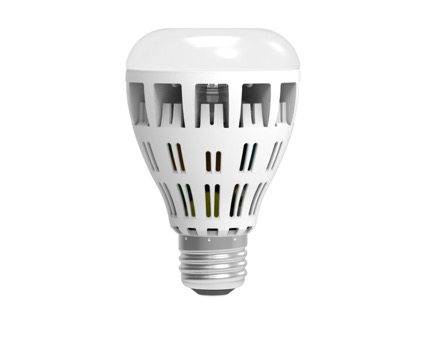
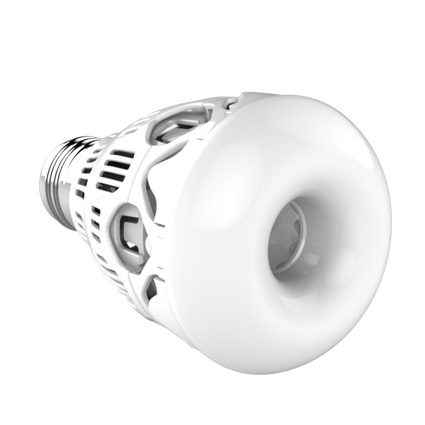
update gallery images

diff --git a/index.html b/index.html
@@ -260,8 +260,6 @@
                 <div class="fotorama" data-nav="thumbs" data-loop="true" data-autoplay="true">
                   <img src="img/gallery/wifi1@2x.jpg" srcset="img/gallery/wifi1.jpg 1x, img/gallery/wifi1@2x.jpg 2x">
                   <img src="img/gallery/wifi2@2x.jpg" srcset="img/gallery/wifi2.jpg 1x, img/gallery/wifi1@2x.jpg 2x">
-                  <img src="img/gallery/wifi3@2x.jpg" srcset="img/gallery/wifi3.jpg 1x, img/gallery/wifi1@2x.jpg 2x">
-                  <img src="img/gallery/wifi4@2x.jpg" srcset="img/gallery/wifi4.jpg 1x, img/gallery/wifi1@2x.jpg 2x">
                 </div>
               </div>
             </div>
